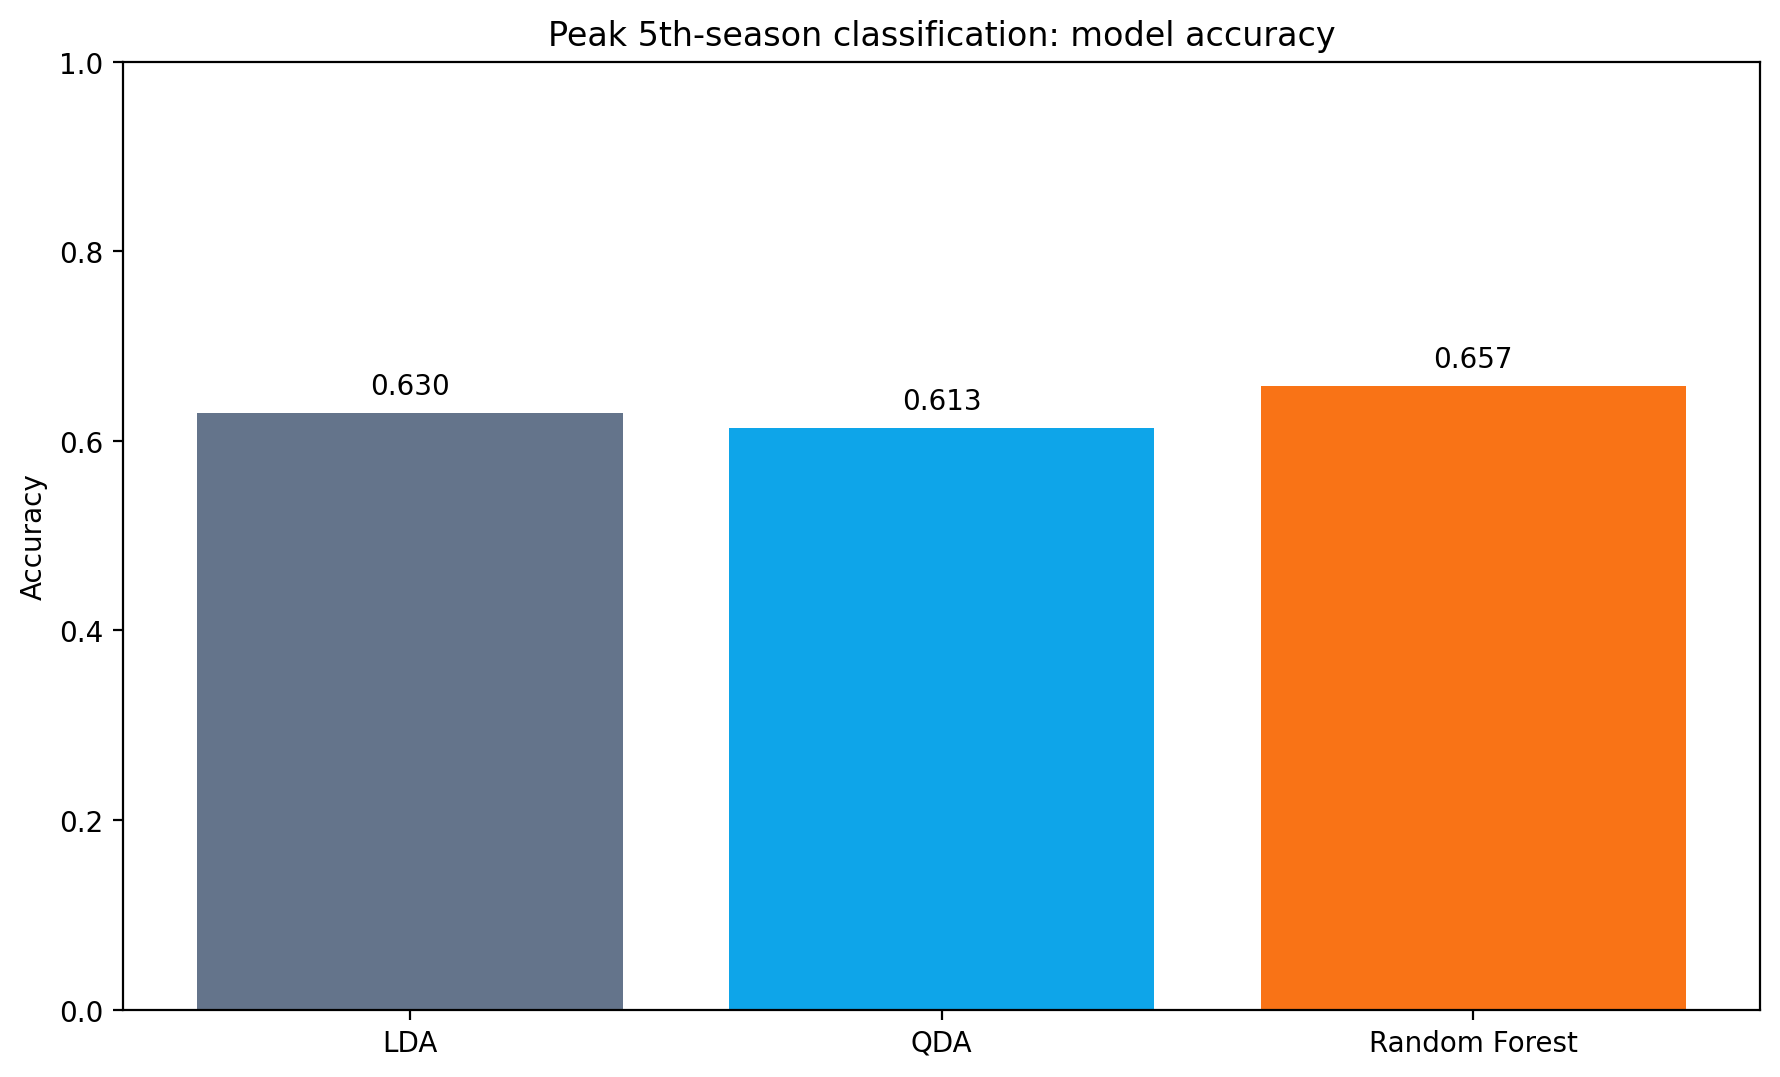
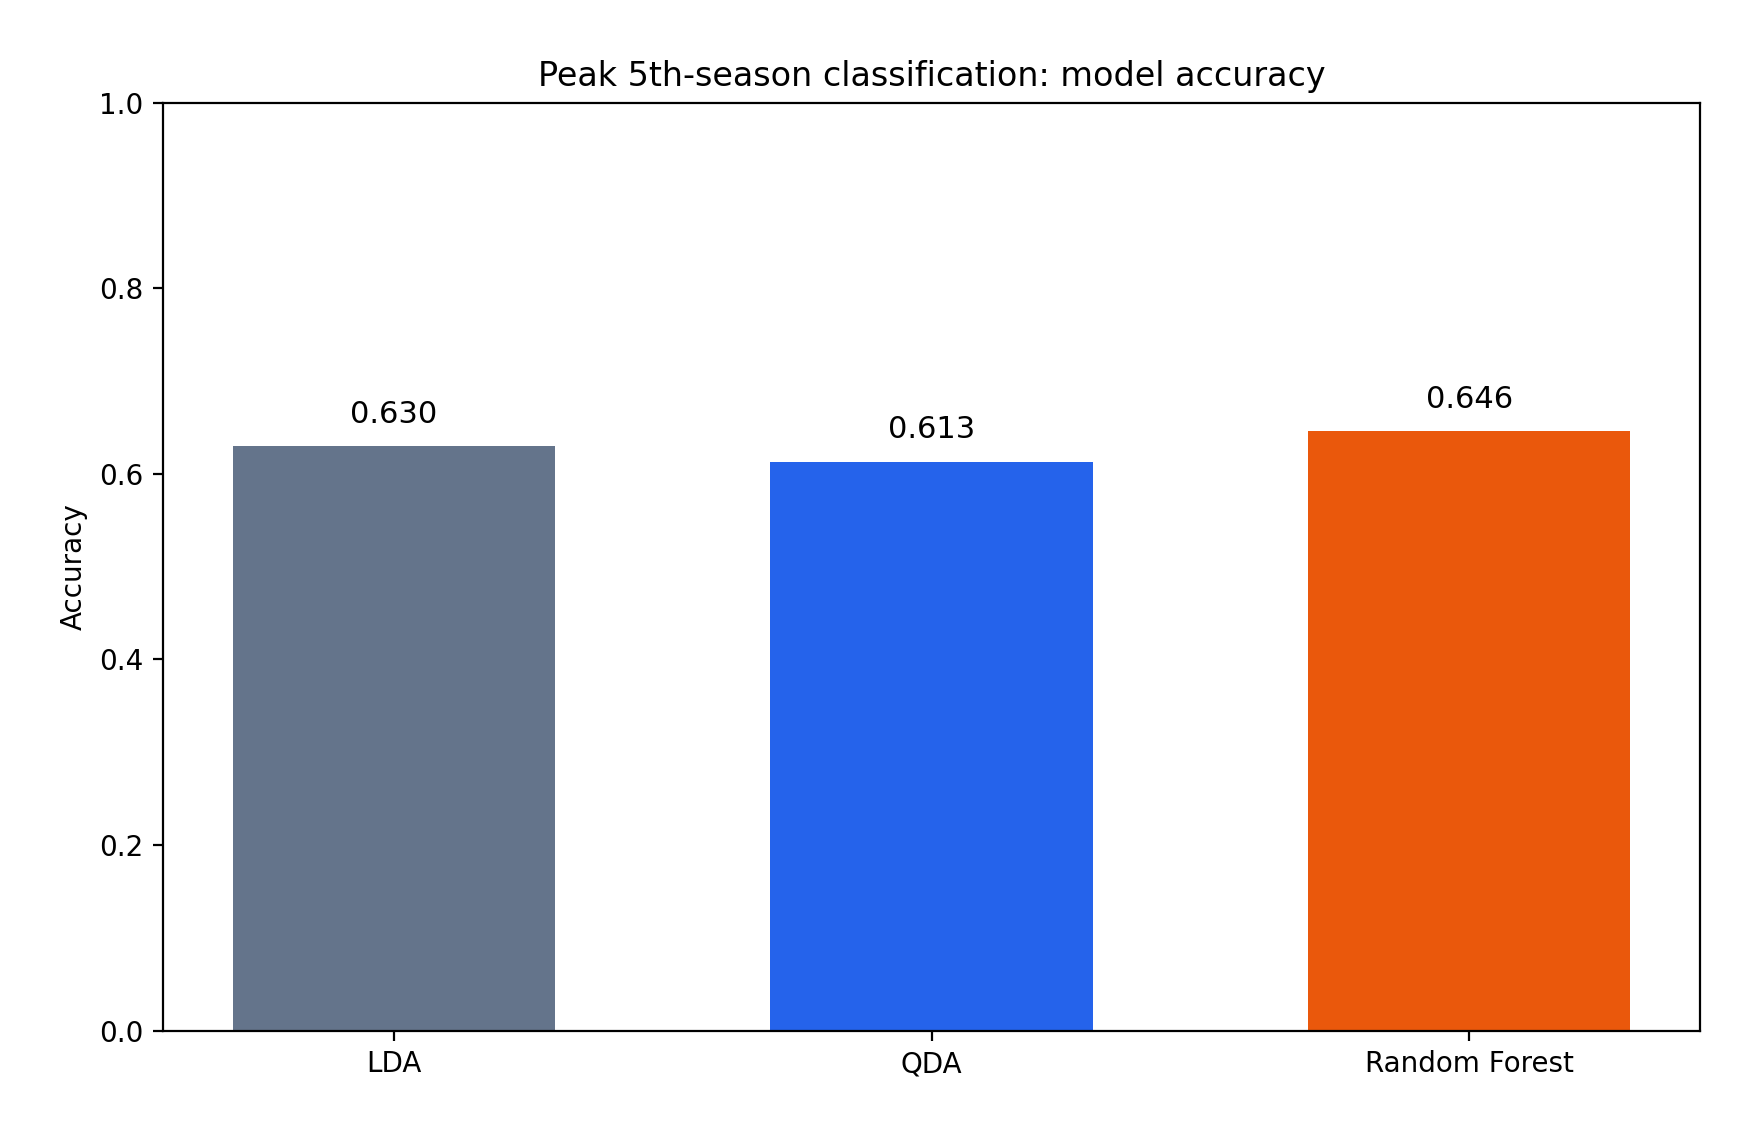
Align wine and NBA modal metrics with Atlas and regenerable results.
Regenerate the high-quality wine ROC at AUC 0.864 and drop the unsupported tuned-RF 73% claim in favor of the held-out RF accuracy shown in the gallery.

diff --git a/app/lib/atlasKnowledge.ts b/app/lib/atlasKnowledge.ts
@@ -177,7 +177,7 @@ Curated courses (name — code):
 - Tech: Python, scikit-learn, NLP, ETL
 
 **NBA Player Performance Prediction**
-- Predicted NBA players' fifth-season performance from their first four seasons using a 12,843-row, 22-feature dataset. Compared linear regression, decision trees, random forests, and gradient boosted trees for regression, and LDA, QDA, and tree ensembles for classification, with a tuned random forest reaching about 73% accuracy. Key finding: simple linear models outperformed the complex tree-based ones, showing the predictive strength of prior season performance and draft position.
+- Predicted NBA players' fifth-season performance from their first four seasons using a 12,843-row, 22-feature dataset. Compared linear regression, decision trees, random forests, and gradient boosted trees for regression, and LDA, QDA, and random forest for classification. On peak-season classification, random forest led the compared models at about 65% held-out accuracy. Key finding: simple linear models outperformed the complex tree-based ones for regression, showing the predictive strength of prior season performance and draft position.
 - Tech: Python, Random Forest, Gradient Boosting
 - GitHub: https://github.com/royho1/nba-player-prediction
 

diff --git a/app/lib/projectImages.ts b/app/lib/projectImages.ts
@@ -178,7 +178,8 @@ export const WINE_QUALITY_CLASSIFICATION_MEDIA: ProjectMediaSlide[] = [
   {
     src: "/projects/wine-quality-classification/roc-high-quality.png",
     title: "High-quality ROC",
-    description: "ROC for classifying highest-quality wines vs the rest.",
+    description:
+      "ROC for classifying highest-quality wines vs the rest (AUC 0.864).",
   },
   {
     src: "/projects/wine-quality-classification/correlation-matrix.png",
@@ -206,12 +207,14 @@ export const NBA_PLAYER_PREDICTION_MEDIA: ProjectMediaSlide[] = [
   {
     src: "/projects/nba-player-prediction/classification-accuracy.png",
     title: "Peak-season classification",
-    description: "Accuracy for predicting whether season 5 is a player's peak.",
+    description:
+      "Held-out accuracy for LDA, QDA, and random forest on peak-season labels.",
   },
   {
     src: "/projects/nba-player-prediction/classification-confusion.png",
     title: "Confusion matrix",
-    description: "Best classifier confusion matrix on the held-out test set.",
+    description:
+      "Random forest confusion matrix on the held-out test set (about 65% accuracy).",
   },
 ];
 
